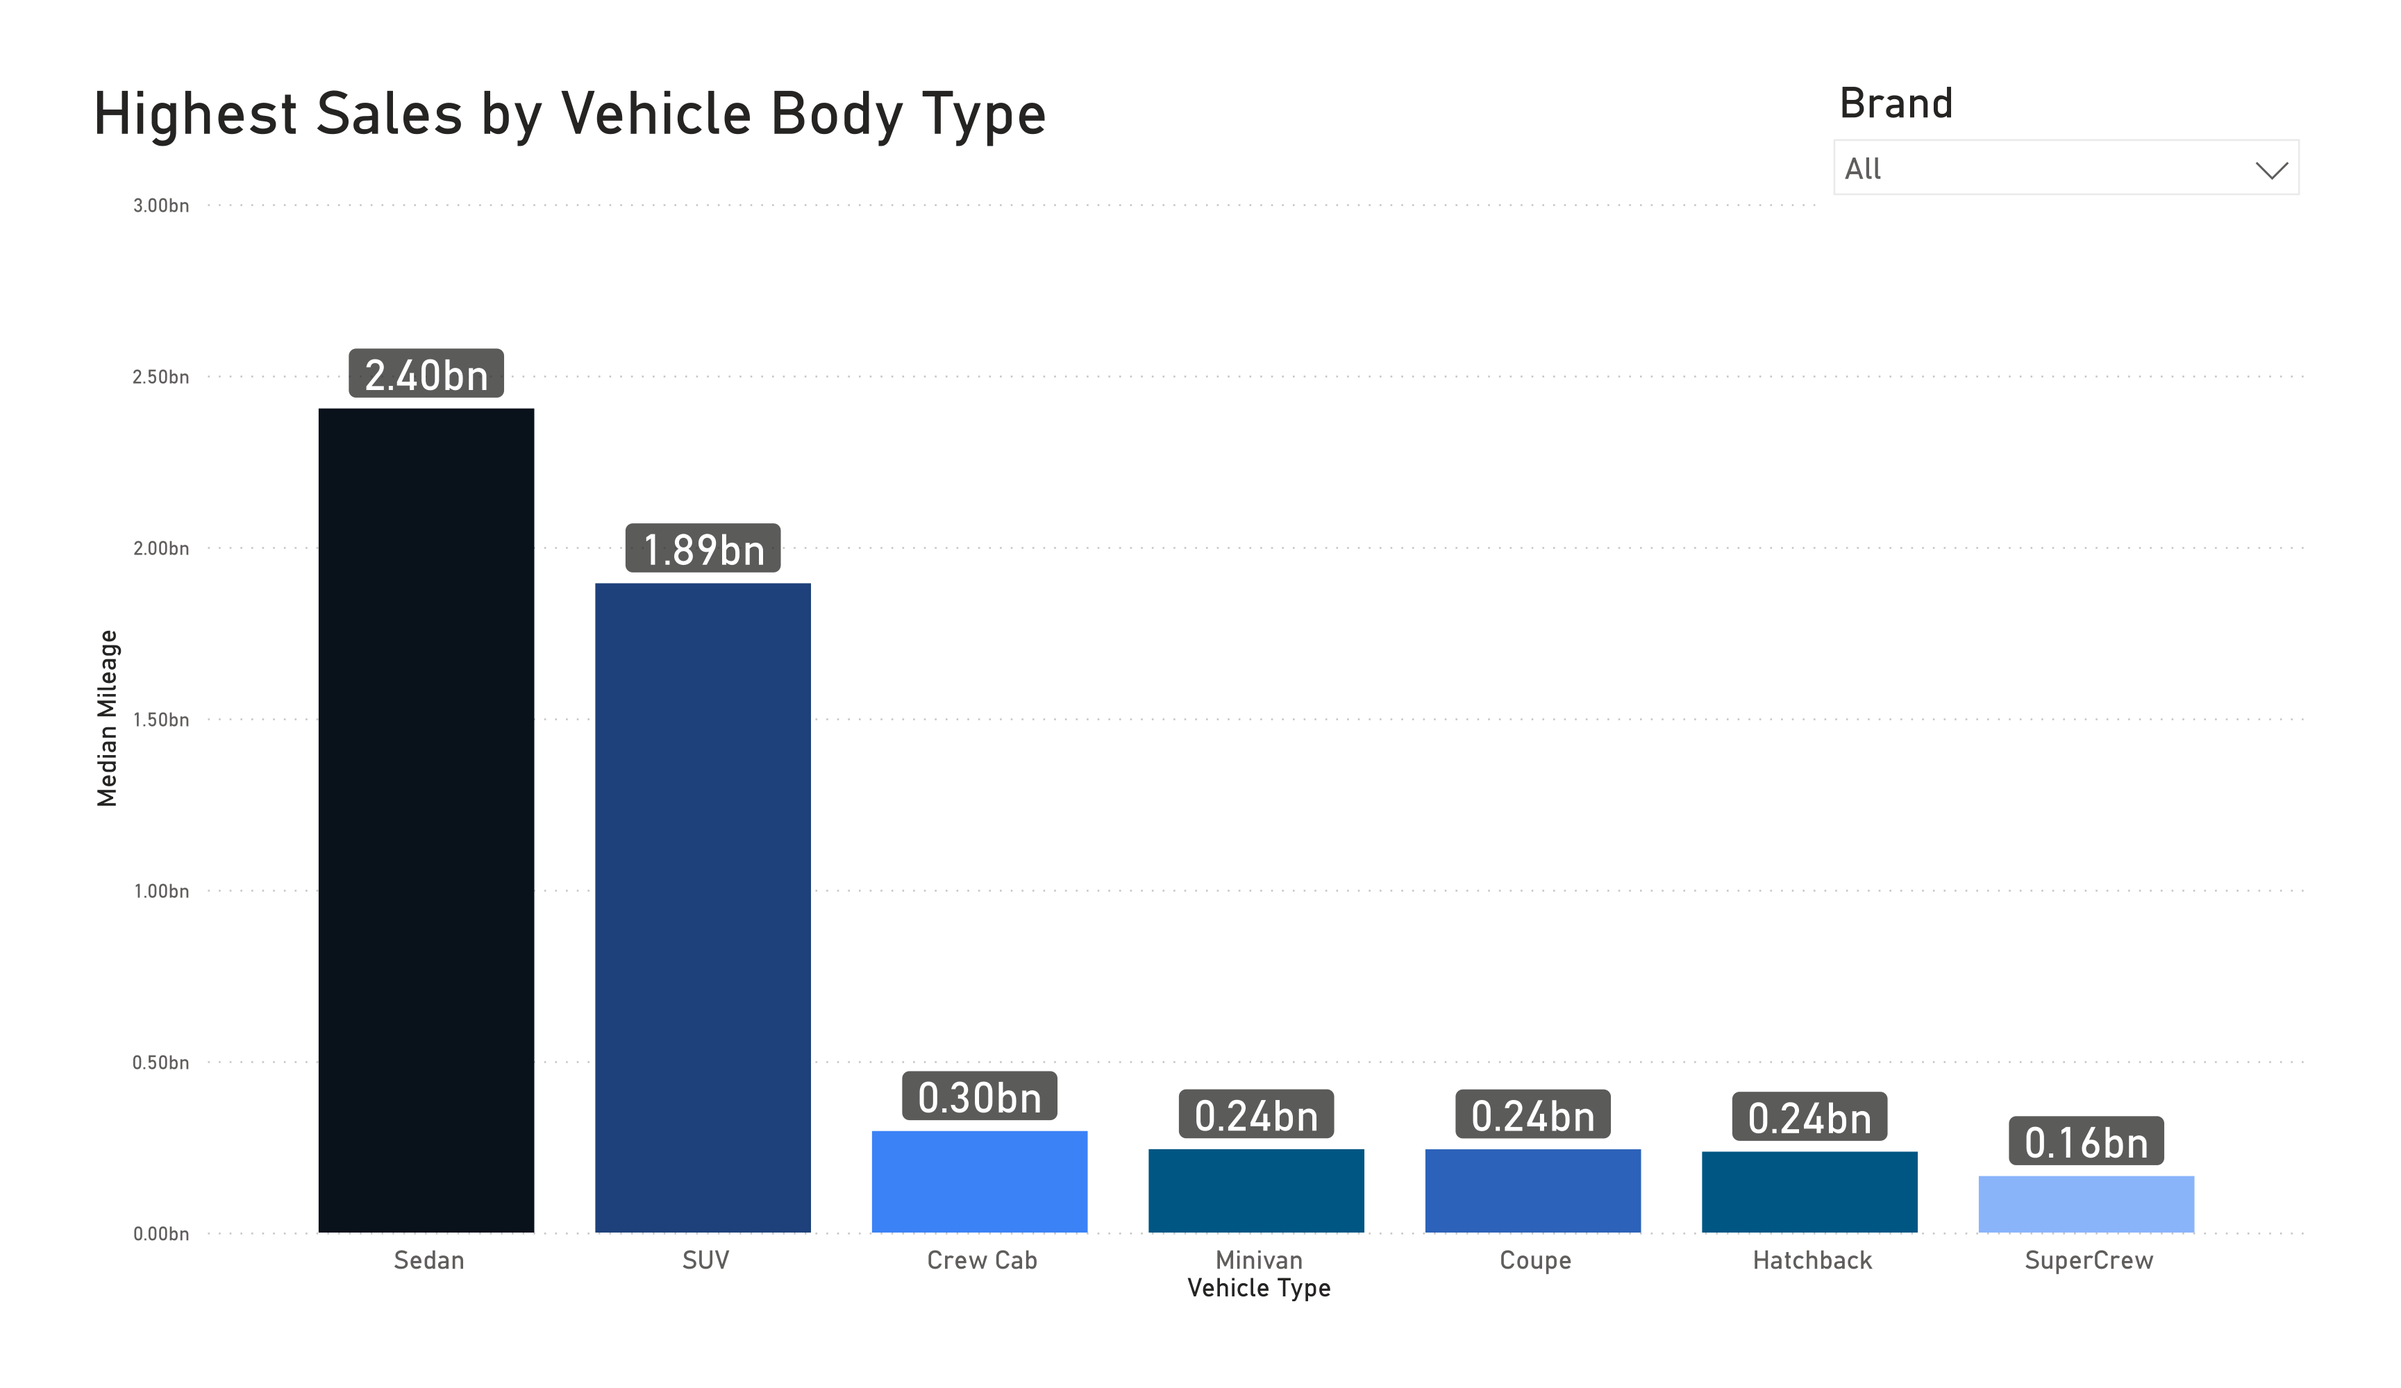
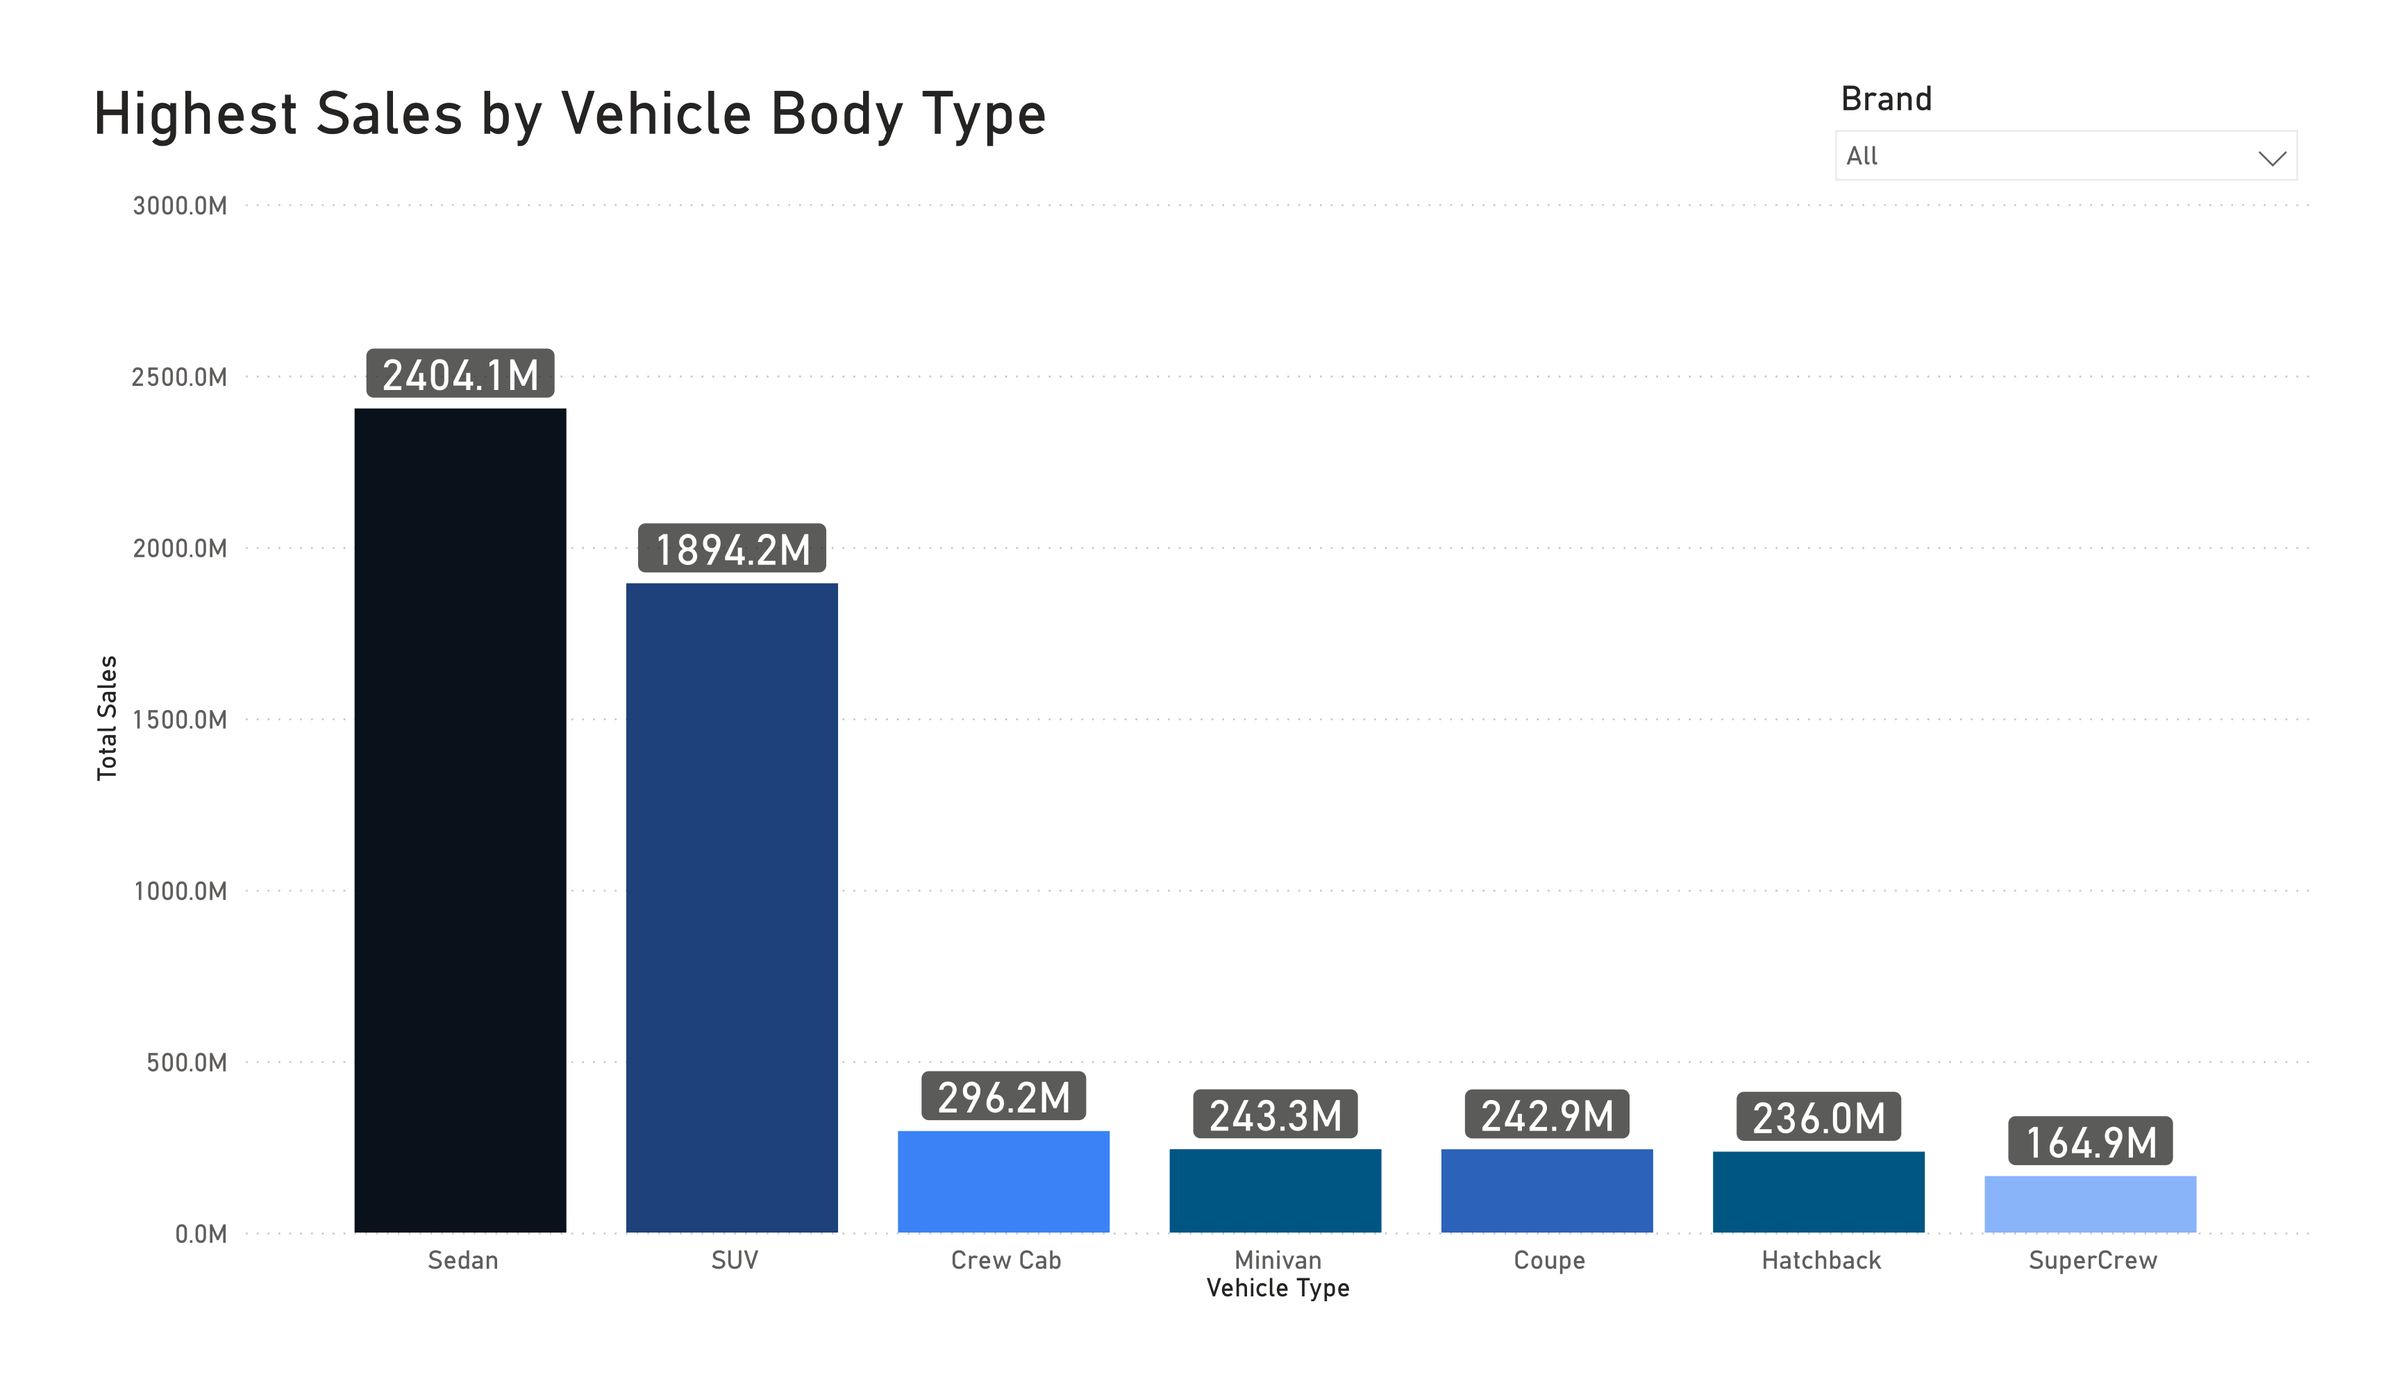
Upload screenshots & update README

diff --git a/README.md b/README.md
@@ -1,51 +1,56 @@
 # Vehicle Sales Exploratory Data Analysis
+
 The [Vehicle Sales and Market Trends Dataset](https://www.kaggle.com/datasets/syedanwarafridi/vehicle-sales-data) dataset is a publicly available dataset from Kaggle, published by Syed Anwar in February 2024. It provides a comprehensive collection of information about the sales transactions of various vehicles from the years 2014 to 2015. This dataset encompasses details such as the manufacture year, make, model, trim, body type, transmission type, VIN (Vehicle Identification Number), state of registration, condition rating, odometer reading, exterior and interior colors, seller information, Manheim Market Report (MMR) values, selling prices, and sale dates.
 
 This data science project aims to perform exploratory market analysis on the Automotive Market, gleaning insight into consumer preferences and demands, sales trends, and pricing fluctuations based on various factors. The resulting insights can help automotive dealers and industry professionals better understand consumer preferences and make informed decisions on catering to their needs.
 
 ## **Final Columns**
+
 <details>
   <summary>These are the final columns comprising the ETL pipeline's resulting data set.</summary>
 
-  + **Year** - The manufacturing year of the vehicle.
-  + **Make** - The brand or manufacturer of the vehicle.
-  + **Model** - The specific model of the vehicle.
-  + **Trim** - Additional designation for the vehicle model.
-  + **Body** - The body type of the vehicle (e.g., SUV, Sedan).
-  + **Transmission** - The transmission type of the vehicle (e.g., automatic).
-  + **Vehicle Identification Number** - A unique code designated to each vehicle.
-  + **State Code** - The two-letter code of the state where the vehicle is registered.
-  + **Odometer** - The mileage or distance traveled by the vehicle.
-  + **Color** - Exterior color of the vehicle.
-  + **Interior** - Interior color of the vehicle.
-  + **Seller** - The entity selling the vehicle.
-  + **Market Price** - The estimated market value of the vehicle based on the Manheim Market Report.
-  + **Selling Price** - The price at which the vehicle was sold.
-  + **Sale Date** - The date when the vehicle was sold.
+- **Year** - The manufacturing year of the vehicle.
+- **Make** - The brand or manufacturer of the vehicle.
+- **Model** - The specific model of the vehicle.
+- **Trim** - Additional designation for the vehicle model.
+- **Body** - The body type of the vehicle (e.g., SUV, Sedan).
+- **Transmission** - The transmission type of the vehicle (e.g., automatic).
+- **Vehicle Identification Number** - A unique code designated to each vehicle.
+- **State Code** - The two-letter code of the state where the vehicle is registered.
+- **Odometer** - The mileage or distance traveled by the vehicle.
+- **Color** - Exterior color of the vehicle.
+- **Interior** - Interior color of the vehicle.
+- **Seller** - The entity selling the vehicle.
+- **Market Price** - The estimated market value of the vehicle based on the Manheim Market Report.
+- **Selling Price** - The price at which the vehicle was sold.
+- **Sale Date** - The date when the vehicle was sold.
 </details>
 
 ## **Grain Columns**
+
 <details>
   <summary>These columns are implemented to introduce more granularity into the final data set.</summary>
 
-  
-  + **State** - The state where the vehicle is registered.
-  + **Sale Year** - Year the vehicle was sold.
-  + **Sale Month** - Month number the vehicle was sold.
-  + **Sale Month Name** - Name of the month the vehicle was sold.
-  + **Sale Day of Week** - Day of week the vehicle was sold.
-  + **Sale Day Name** - Name of the day the vehicle was sold.
-  + **Sale Month Short Name** - Short name of the month the vehicle was sold.
+- **State** - The state where the vehicle is registered.
+- **Sale Year** - Year the vehicle was sold.
+- **Sale Month** - Month number the vehicle was sold.
+- **Sale Month Name** - Name of the month the vehicle was sold.
+- **Sale Day of Week** - Day of week the vehicle was sold.
+- **Sale Day Name** - Name of the day the vehicle was sold.
+- **Sale Month Short Name** - Short name of the month the vehicle was sold.
 </details>
 
 ## Business Questions
+
 <details>
   <summary><strong>Sales Inquiries</strong></summary>
   <div>
-    <p><i><i>What is the trend of market price versus selling price over the years?</i></i></p>
+    <p><i>What is the disparity between the annual average reported market prices and the selling prices of vehicles from 2014 to 2015, and what has been the overall trend?</i></p>
     <div align="center">
       <img src="https://raw.githubusercontent.com/heischichou/Vehicle-Sales-Analysis/main/assets/Market%20Vs%20Selling%20Price.png"></img>
     </div>
+    <br>
+    <p align="justify">&nbsp;&nbsp;The results indicate that between 2014 and 2015, both the annual average reported market and selling prices of vehicles rose in value. Moreover, analyzing the annual average reported market and selling prices during that time reveals a fascinating trend. In 2014, the average market price was $12,945.37, while the average selling price was slightly lower at $12,735.92, resulting in a disparity of $209.45. Meanwhile, in 2015, the average market price increased to $13,903.61, and the average selling price also increased to $13,768.14, resulting in a smaller disparity of $135.47. These findings suggest that vehicles are being sold at prices closer to their market price in 2015 compared to 2014; this implies that the disparity between the average reported market prices and the average selling prices of vehicles is narrowing over time.</p>
   </div>
   <br>
   <div>
@@ -60,6 +65,8 @@ This data science project aims to perform exploratory market analysis on the Aut
     <div align="center">
       <img src="https://raw.githubusercontent.com/heischichou/Vehicle-Sales-Analysis/main/assets/Highest%20Sales%20by%20Vehicle%20Body%20Type.png"></img>
     </div>
+    <br>
+    <p align="justify">&nbsp;&nbsp;The results highlight the diverse preferences of consumers for different vehicle types in the U.S. automotive market; in terms of gross sales value, Sedans are the highest-grossing vehicle type overall, with a total sales value exceeding $2.4 billion. SUVs follow closely behind, with sales totaling $1.89 billion—indicating their popularity and strong market demand. Crew Cabs, Minivans, and Coupes trail behind with considerably less but still significant gross sales values of $296 million, $243 million, and $242 million, respectively. Hatchbacks and SuperCrews round out the list with sales values of $236 million and $164 million, respectively. These findings suggest that consumers prefer to purchase vehicles with comfortable and practical accommodations for four or more passengers.</p>
   </div>
 </details>
 
@@ -78,6 +85,13 @@ This data science project aims to perform exploratory market analysis on the Aut
       <img src="https://raw.githubusercontent.com/heischichou/Vehicle-Sales-Analysis/main/assets/Highest%20Selling%20Vehicle%20Types%20by%20Manufacturing%20Year.png"></img>
     </div>
   </div>
+  <br>
+  <p align="justify">&nbsp;&nbsp;As seen above in the figures above, the results on the top 3 highest-grossing and highest-selling vehicle types (Sedan, SUV, and CrewCab) by manufacture year from 2011 to 2015 demonstrate the following insights:</p>
+  <ul>
+    <li align="justify">Across their manufacturing years, Sedans are consistently the highest-grossing and highest-selling vehicle type at 206,429 units sold for $2.4 billion in total revenue. SUVs follow behind at 117,229 units sold for $1.89 billion in revenue, and CrewCabs at 13,627 units sold for $296 million. These figures suggest that Sedans are the prime choice of vehicle in the automotive industry among consumers, manufacturers, and dealers alike, and continue to generate significant demand and revenue regardless of their manufacture year.</li>
+    <li align="justify">There are considerable variances in sales among distinct manufacturing years, indicating fluctuations in market demand. Notably, as newer vehicle models enter the market and displace older models, cumulative sales experienced a downward trend in revenue and the number of units sold; this implies that consumers prefer to purchase older models, or possibly, there is a decline in the automotive market over time.</li>
+  </ul>
+  <p align="justify">These results overall show that the United States is a lucrative market for vehicle dealers and manufacturers.</p>
 </details>
 
 <details>
@@ -87,6 +101,8 @@ This data science project aims to perform exploratory market analysis on the Aut
     <div align="center">
       <img src="https://raw.githubusercontent.com/heischichou/Vehicle-Sales-Analysis/main/assets/Top%20Brands%20by%20Total%20Sales.png"></img>
     </div>
+    <br>
+    <p align="justify">&nbsp;&nbsp;The results illustrate the strong performance of automotive brands in the U.S. market in sales volume and market share. At the top spot, Ford emerges as a clear leader in the U.S. automotive industry with a gross sales value of roughly $1.16 billion, showcasing its strong market presence and consumer appeal. Chevrolet follows at a considerably lower market share than Ford at $621 million. Nissan and Toyota trail behind with competitive gross sales values of $507 million and $427 million, respectively. Lastly, BMW is the 5th top brand with a gross sales value of $362 million, highlighting its success in capturing a large consumer base.</p>
   </div>
   <br>
   <div>
@@ -94,6 +110,8 @@ This data science project aims to perform exploratory market analysis on the Aut
     <div align="center">
       <img src="https://raw.githubusercontent.com/heischichou/Vehicle-Sales-Analysis/main/assets/Top%20Brands%20by%20Number%20of%20Vehicles%20Sold.png"></img>
     </div>
+    <br>
+    <p align="justify">&nbsp;&nbsp;These results illustrate the strong performance of automotive brands in the U.S. market in terms of sales volume and market share. Based on the number of vehicles sold, Ford leads the U.S. market with a total of 78,858 units, capturing a significant market share of 33.50%. Chevrolet follows with 52,580 sold, comprising 22.34% of the market. Nissan and Toyota trail behind with 43,128 and 34,463 units sold, respectively, showing their competitive positions in the automotive industry. Lastly, Dodge is the 5th top brand, with 26,634 vehicles sold, representing 11.20% of the market.</p>
   </div>
 </details>
 
@@ -104,13 +122,17 @@ This data science project aims to perform exploratory market analysis on the Aut
     <div align="center">
       <img src="https://raw.githubusercontent.com/heischichou/Vehicle-Sales-Analysis/main/assets/Most%20Common%20Vehicle%20Body%20Type.png"></img>
     </div>
+    <br>
+    <p align="justify">&nbsp;&nbsp;The results illustrate the popularity of different vehicle types available in the U.S. automotive market. In terms of total units sold, the most common vehicle type is Sedans, with a total of 206,429 units sold (47.55%). The remaining most common vehicles are SUVs at 117,229 units (27.01%), Hatchbacks at 23,184 units (5.34%), Minivans at 21,429 units (4.94%), Coupes at 5,537 units (3.54%), Wagons at 13,816 units (3.18%), and Crew Cabs at 13,627 units (3.14%), Convertibles at 8,935 units (2.06%), SuperCrews at 7,278 units (1.68%), and lastly, G Sedans at 6,812 units (1.57%).</p>
   </div>
   <br>
   <div>
-    <p fontWeight="bold">What are the most common vehicle colors?</i></p>
+    <p><i>What are the most common vehicle colors?</i></p>
     <div align="center">
       <img src="https://raw.githubusercontent.com/heischichou/Vehicle-Sales-Analysis/main/assets/Most%20Common%20Vehicle%20Colors.png"></img>
     </div>
+    <br>
+    <p align="justify">&nbsp;&nbsp;The results illustrate the popularity of color choices in the U.S. automotive market. In the number of units sold under the specific color, the most common vehicle color is Black, with a total of 90,446 units (21.25%). The remaining most common vehicle colors are White at 86,860 units (20.41%), Silver at 69,167 units (16.25%), Gray at 68,734 units (16.15%) and Blue at 44,622 units (10.48%), Red at 40,372 units (9.49%), Gold at 14,795 units (3.48%), and lastly, Purple at 10,644 units (2.5%). These findings suggest that monotone or grayscale colors are the most popular among vehicle owners and manufacturers in the U.S.</p>
   </div>
   <br>
   <div>
@@ -118,6 +140,9 @@ This data science project aims to perform exploratory market analysis on the Aut
     <div align="center">
       <img src="https://raw.githubusercontent.com/heischichou/Vehicle-Sales-Analysis/main/assets/Most%20Common%20Vehicle%20Transmission%20Type.png"></img>
     </div>
+    <br>
+    <p align="justify">&nbsp;&nbsp;These results indicate that out of a total of roughly 459,400 vehicles, a small proportion, 15.7K vehicles (3.42%) are Manual transmissions, while the vast majority, 443.6K vehicles (96.58%) are Automatic transmissions. Overall, the results suggest that automatic vehicles are the preferred choice of vehicle transmission among vehicle owners and manufacturers.</p>
+  </div>
 </details>
 
 <details>
@@ -127,13 +152,8 @@ This data science project aims to perform exploratory market analysis on the Aut
     <div align="center">
       <img src="https://raw.githubusercontent.com/heischichou/Vehicle-Sales-Analysis/main/assets/Top%20States%20with%20Most%20Vehicles%20Sold.png"></img>
     </div>
-  </div>
-  <br>
-  <div>
-    <p><i>What are the most common vehicle types across all states?</i></p>
-    <div align="center">
-      <img src="https://raw.githubusercontent.com/heischichou/Vehicle-Sales-Analysis/main/assets/Most%20Common%20Vehicle%20Body%20Type.png"></img>
-    </div>
+    <br>
+    <p align="justify">&nbsp;&nbsp;These results illustrate the distribution of registered vehicles across the United States. Florida has the highest number of registered vehicles, totaling 73,405 units, highlighting its large population and high vehicle ownership rate. California follows closely behind with 63,579 units, reflecting its status as the most populous state. Texas—with 40,393 units, also features prominently on the list, owing to its significant presence in the automotive landscape as a manufacturing and transportation export base. The remaining states with the highest number of vehicles sold are Georgia at 29,761 units, Pennsylvania at 23,522 units, New Jersey at 22,578 units, Illinois at 21,144 units, Ohio at 19,771 units, Tennessee at 18,476 units, and lastly, North Carolina at 18,040 units. These results overall affirm the high demand for vehicles in states hosting large populations.</p>
   </div>
 </details>
 
